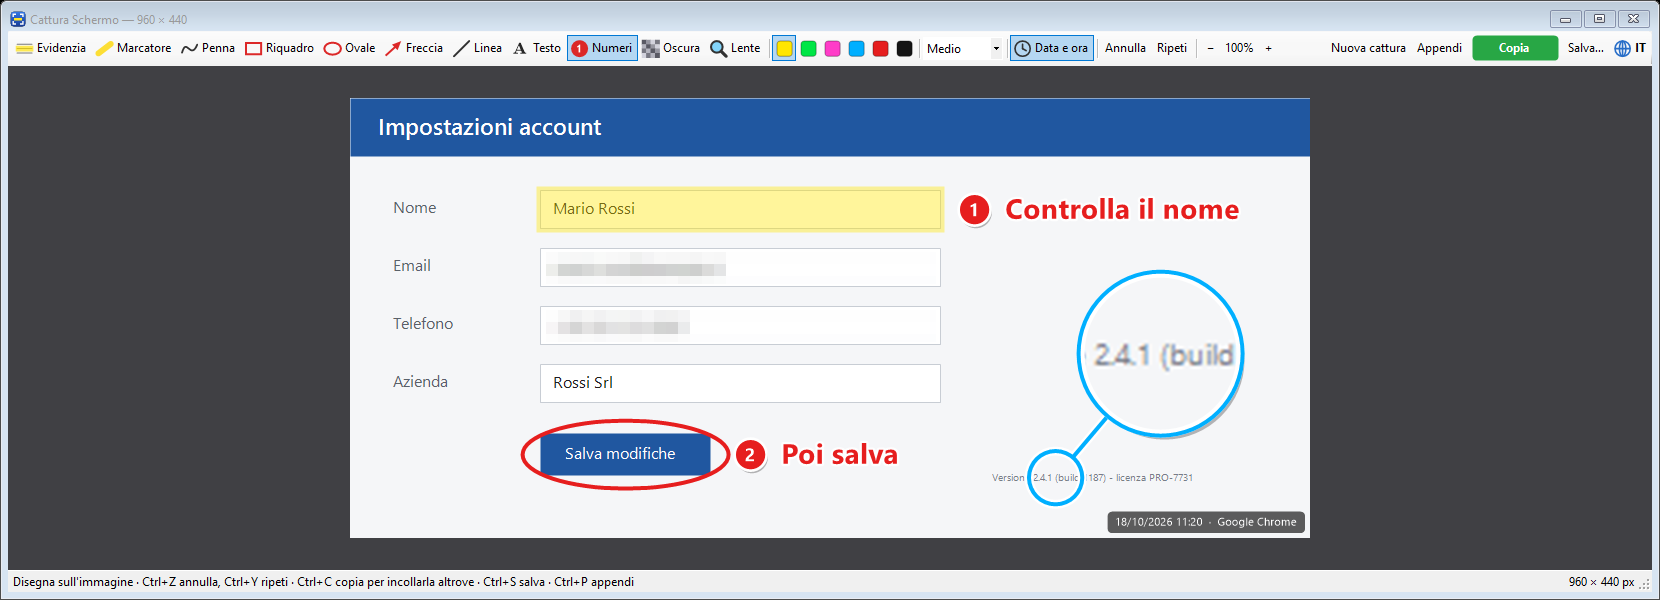
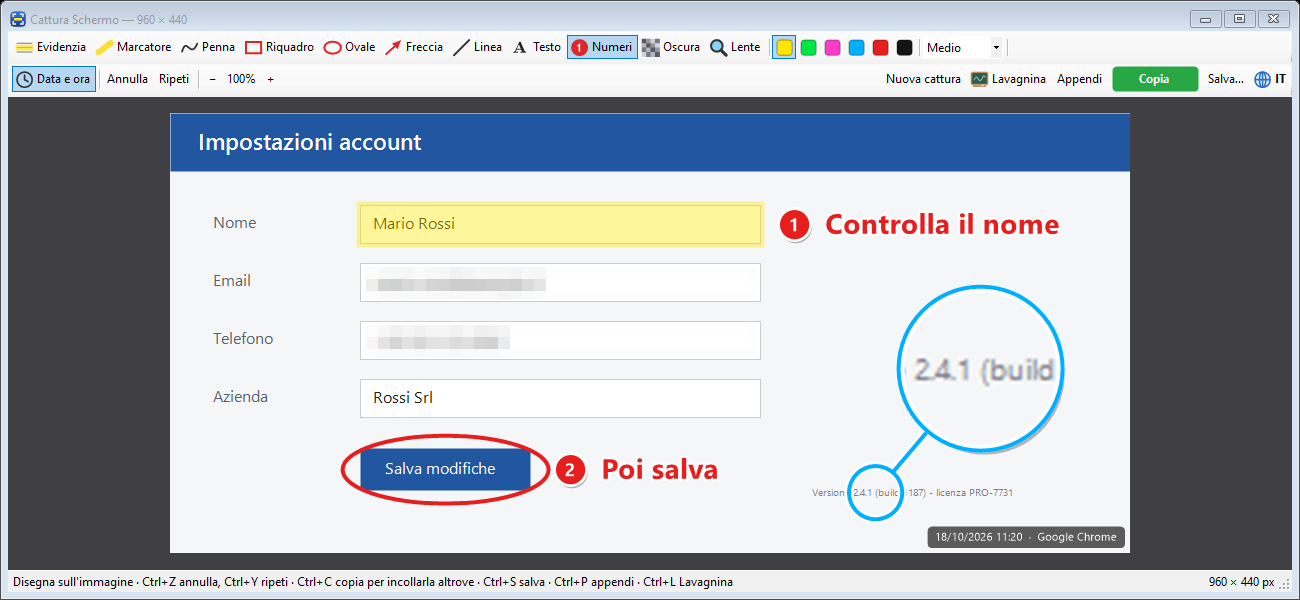
Versione 1.2.0: copia automatica, pulsante Lavagnina, barra su due righe
- Copia automatica: appena catturata, l'immagine va negli appunti
  (voce del menu dell'icona per spegnerla).
- Pulsante Lavagnina (Ctrl+L): manda l'immagine con i segni alla
  lavagna aperta, se Lavagnina è installata.
- La barra degli strumenti è su due righe, così su schermi Full HD
  Copia, Salva, Appendi e Lavagnina restano sempre visibili.
- README e screenshot aggiornati.

diff --git a/CatturaSchermo.cs b/CatturaSchermo.cs
@@ -88,6 +88,38 @@ namespace CatturaSchermo
         public static string T(string it, string english) { return en ? english : it; }
     }
 
+    // Preferenze ricordate tra un avvio e l'altro.
+    public static class Prefs
+    {
+        const string Key = @"Software\CatturaSchermo";
+
+        // Copiare l'immagine negli appunti appena catturata (attivo se non è mai stato spento).
+        public static bool AutoCopy
+        {
+            get
+            {
+                try
+                {
+                    using (var k = Registry.CurrentUser.OpenSubKey(Key))
+                    {
+                        object v = k == null ? null : k.GetValue("AutoCopy");
+                        return !(v is int) || (int)v != 0;
+                    }
+                }
+                catch { return true; }
+            }
+            set
+            {
+                try
+                {
+                    using (var k = Registry.CurrentUser.CreateSubKey(Key))
+                        k.SetValue("AutoCopy", value ? 1 : 0, RegistryValueKind.DWord);
+                }
+                catch { }
+            }
+        }
+    }
+
     // ------------------------------------------------------------------ icona dell'app
 
     public static class IconArt
@@ -186,6 +218,9 @@ namespace CatturaSchermo
             var auto = new ToolStripMenuItem();
             auto.Checked = IsAutostart();
             auto.Click += delegate { SetAutostart(!auto.Checked); auto.Checked = IsAutostart(); };
+            var autoCopy = new ToolStripMenuItem();
+            autoCopy.Checked = Prefs.AutoCopy;
+            autoCopy.Click += delegate { Prefs.AutoCopy = !Prefs.AutoCopy; autoCopy.Checked = Prefs.AutoCopy; };
             var language = new ToolStripMenuItem("Lingua / Language");
             var italian = new ToolStripMenuItem("Italiano", null, delegate { Lang.Set(false); });
             var english = new ToolStripMenuItem("English", null, delegate { Lang.Set(true); });
@@ -195,6 +230,7 @@ namespace CatturaSchermo
             menu.Items.Add(area);
             menu.Items.Add(full);
             menu.Items.Add(new ToolStripSeparator());
+            menu.Items.Add(autoCopy);
             menu.Items.Add(auto);
             menu.Items.Add(language);
             menu.Items.Add(new ToolStripSeparator());
@@ -206,6 +242,7 @@ namespace CatturaSchermo
                 tray.Text = Program.AppName + "  (Ctrl+Alt+S)";
                 area.Text = Lang.T("Cattura un'area", "Capture an area") + "\tCtrl+Alt+S";
                 full.Text = Lang.T("Cattura schermo intero", "Capture full screen") + "\tCtrl+Alt+F";
+                autoCopy.Text = Lang.T("Copia subito negli appunti", "Copy to clipboard right away");
                 auto.Text = Lang.T("Avvia con Windows", "Start with Windows");
                 exit.Text = Lang.T("Esci", "Exit");
                 italian.Checked = !Lang.En;
@@ -1381,7 +1418,7 @@ namespace CatturaSchermo
         Color color;
         readonly Panel host;
         readonly Canvas canvas;
-        readonly ToolStrip strip;
+        readonly ToolStrip strip, strip2;   // fila degli strumenti e fila delle azioni
         readonly Dictionary<Tool, ToolStripButton> toolButtons = new Dictionary<Tool, ToolStripButton>();
         readonly List<ToolStripButton> colorButtons = new List<ToolStripButton>();
         readonly ToolStripComboBox widthBox;
@@ -1415,6 +1452,13 @@ namespace CatturaSchermo
             strip.GripStyle = ToolStripGripStyle.Hidden;
             strip.ImageScalingSize = new Size(isz, isz);
             strip.Padding = new Padding((int)(4 * scale), (int)(3 * scale), 0, (int)(3 * scale));
+
+            // Seconda fila: annulla, zoom, data e ora e, a destra, Copia/Salva/Appendi/Lavagnina.
+            // Divise su due righe i pulsanti stanno anche su schermi Full HD con ingrandimento 125-150%.
+            strip2 = new ToolStrip();
+            strip2.GripStyle = ToolStripGripStyle.Hidden;
+            strip2.ImageScalingSize = new Size(isz, isz);
+            strip2.Padding = new Padding((int)(4 * scale), (int)(1 * scale), 0, (int)(3 * scale));
 
             AddToolButton(Tool.Evidenziatore, isz, "Evidenzia", "Highlight",
                 "Evidenzia un'area rettangolare (1)", "Highlight a rectangular area (1)");
@@ -1497,17 +1541,17 @@ namespace CatturaSchermo
                     Lang.T("  (clic per mostrarla/nasconderla)", "  (click to show/hide it)");
             });
             stampButton.CheckedChanged += delegate { stampOn = stampButton.Checked; modified = true; canvas.Invalidate(); };
-            strip.Items.Add(stampButton);
-            strip.Items.Add(new ToolStripSeparator());
+            strip2.Items.Add(stampButton);
+            strip2.Items.Add(new ToolStripSeparator());
 
             AddAction("Annulla", "Undo", "Annulla l'ultima modifica (Ctrl+Z)", "Undo the last change (Ctrl+Z)", Undo);
             AddAction("Ripeti", "Redo", "Ripeti (Ctrl+Y)", "Redo (Ctrl+Y)", Redo);
-            strip.Items.Add(new ToolStripSeparator());
+            strip2.Items.Add(new ToolStripSeparator());
             AddAction("−", "−", "Riduci (Ctrl+meno o Ctrl+rotellina)", "Zoom out (Ctrl+minus or Ctrl+wheel)", delegate { SetZoom(zoom / 1.25f); });
             zoomLabel = new ToolStripLabel("100%");
             Loc(delegate { zoomLabel.ToolTipText = Lang.T("Clic: dimensione reale / adatta alla finestra (Ctrl+0)", "Click: actual size / fit to window (Ctrl+0)"); });
             zoomLabel.Click += delegate { ToggleFit(); };
-            strip.Items.Add(zoomLabel);
+            strip2.Items.Add(zoomLabel);
             AddAction("+", "+", "Ingrandisci (Ctrl+più o Ctrl+rotellina)", "Zoom in (Ctrl+plus or Ctrl+wheel)", delegate { SetZoom(zoom * 1.25f); });
 
             // A destra (il primo aggiunto sta all'estremità): lingua, Salva, Copia, Appendi, Nuova cattura.
@@ -1564,11 +1608,42 @@ namespace CatturaSchermo
             again.Alignment = ToolStripItemAlignment.Right;
             again.Click += delegate { NewCapture(); };
             Loc(delegate { again.Text = Lang.T("Nuova cattura", "New capture"); again.ToolTipText = Lang.T("Nuova cattura (Ctrl+N)", "New capture (Ctrl+N)"); });
-            strip.Items.Add(langButton);
-            strip.Items.Add(save);
-            strip.Items.Add(copy);
-            strip.Items.Add(pin);
-            strip.Items.Add(again);
+            strip2.Items.Add(langButton);
+            strip2.Items.Add(save);
+            strip2.Items.Add(copy);
+            strip2.Items.Add(pin);
+
+            // Lavagnina: il pulsante c'è solo se il programma è installato
+            lavagninaPath = FindLavagnina();
+            if (lavagninaPath != null)
+            {
+                var lav = new ToolStripButton();
+                lav.Alignment = ToolStripItemAlignment.Right;
+                try
+                {
+                    using (var ico = Icon.ExtractAssociatedIcon(lavagninaPath))
+                    using (var big = ico.ToBitmap())
+                    {
+                        var small = new Bitmap(isz, isz);
+                        using (var g = Graphics.FromImage(small))
+                        {
+                            g.InterpolationMode = InterpolationMode.HighQualityBicubic;
+                            g.DrawImage(big, 0, 0, isz, isz);
+                        }
+                        lav.Image = small;
+                    }
+                }
+                catch { }
+                lav.Click += delegate { SendToLavagnina(); };
+                Loc(delegate
+                {
+                    lav.Text = "Lavagnina";
+                    lav.ToolTipText = Lang.T("Apri l'immagine, con i segni, nella lavagna di Lavagnina (Ctrl+L)",
+                                             "Open the image, with your marks, on the Lavagnina whiteboard (Ctrl+L)");
+                });
+                strip2.Items.Add(lav);
+            }
+            strip2.Items.Add(again);
 
             // --- area di disegno
             host = new Panel();
@@ -1598,6 +1673,7 @@ namespace CatturaSchermo
             statusTimer.Tick += delegate { statusTimer.Stop(); ShowHint(); };
 
             Controls.Add(host);
+            Controls.Add(strip2);
             Controls.Add(strip);
             Controls.Add(bar);
 
@@ -1607,8 +1683,8 @@ namespace CatturaSchermo
 
             // --- dimensione iniziale: l'immagine intera, se ci sta
             Rectangle wa = Screen.FromPoint(Cursor.Position).WorkingArea;
-            int chromeW = 40, chromeH = strip.PreferredSize.Height + bar.PreferredSize.Height + 60;
-            int minW = Math.Max(strip.PreferredSize.Width + 30, (int)(560 * scale));
+            int chromeW = 40, chromeH = strip.PreferredSize.Height + strip2.PreferredSize.Height + bar.PreferredSize.Height + 60;
+            int minW = Math.Max(Math.Max(strip.PreferredSize.Width, strip2.PreferredSize.Width) + 30, (int)(560 * scale));
             int maxW = (int)(wa.Width * 0.9), maxH = (int)(wa.Height * 0.9);
             float fit = Math.Min(1f, Math.Min((maxW - chromeW) / (float)img.Width, (maxH - chromeH) / (float)img.Height));
             SetZoom(fit);
@@ -1649,7 +1725,7 @@ namespace CatturaSchermo
             var b = new ToolStripButton();
             b.Click += delegate { action(); };
             Loc(delegate { b.Text = Lang.T(it, en); b.ToolTipText = Lang.T(tipIt, tipEn); });
-            strip.Items.Add(b);
+            strip2.Items.Add(b);
         }
 
         static Bitmap GlobeIcon(int s)
@@ -1672,7 +1748,8 @@ namespace CatturaSchermo
         {
             status.Text = Lang.T(
                 "Disegna sull'immagine · Ctrl+Z annulla, Ctrl+Y ripeti · Ctrl+C copia per incollarla altrove · Ctrl+S salva · Ctrl+P appendi",
-                "Draw on the image · Ctrl+Z undo, Ctrl+Y redo · Ctrl+C copy to paste it elsewhere · Ctrl+S save · Ctrl+P pin");
+                "Draw on the image · Ctrl+Z undo, Ctrl+Y redo · Ctrl+C copy to paste it elsewhere · Ctrl+S save · Ctrl+P pin") +
+                (lavagninaPath != null ? " · Ctrl+L Lavagnina" : "");
         }
 
         void Flash(string msg)
@@ -1690,6 +1767,24 @@ namespace CatturaSchermo
             Activate();
             TopMost = false;
             canvas.Focus();
+            if (Prefs.AutoCopy) CopyRightAway();
+        }
+
+        // Appena catturata, l'immagine va negli appunti (come se si fosse già premuto Ctrl+C).
+        void CopyRightAway()
+        {
+            using (var bmp = Render())
+                if (!ImageExport.Copy(this, bmp)) return;
+            copiedShown = true;
+            copyButton.Text = Lang.T("✔ Copiato", "✔ Copied");
+            copyButton.Invalidate();
+            copiedTimer.Stop();
+            copiedTimer.Start();
+            status.Text = Lang.T("✔ Già negli appunti: incollala con Ctrl+V. Se aggiungi dei segni, premi di nuovo Copia.",
+                                 "✔ Already on the clipboard: paste it with Ctrl+V. If you add marks, press Copy again.");
+            statusTimer.Stop();
+            statusTimer.Interval = 7000;   // questo promemoria resta un po' di più
+            statusTimer.Start();
         }
 
         // --- strumenti e colori
@@ -2727,6 +2822,53 @@ namespace CatturaSchermo
             Close();
         }
 
+        // --- Lavagnina (C:\...\Lavagnina.exe): riceve l'immagine e la aggiunge alla lavagna aperta
+
+        string lavagninaPath;
+
+        static string FindLavagnina()
+        {
+            var candidates = new List<string>();
+            try
+            {
+                // Lavagnina scrive qui dov'è, a ogni avvio
+                using (var k = Registry.CurrentUser.OpenSubKey(@"Software\Lavagnina"))
+                    if (k != null) candidates.Add(k.GetValue("ExePath") as string);
+            }
+            catch { }
+            string dir = Path.GetDirectoryName(typeof(EditorForm).Assembly.Location);
+            candidates.Add(Path.Combine(dir, "Lavagnina.exe"));
+            candidates.Add(Path.GetFullPath(Path.Combine(dir, @"..\Excalidraw\Lavagnina.exe")));
+            candidates.Add(Path.GetFullPath(Path.Combine(dir, @"..\Lavagnina\Lavagnina.exe")));
+            foreach (string c in candidates)
+                if (!string.IsNullOrEmpty(c) && File.Exists(c)) return c;
+            return null;
+        }
+
+        void SendToLavagnina()
+        {
+            CommitText();
+            try
+            {
+                string folder = Path.Combine(Path.GetTempPath(), "CatturaSchermo");
+                Directory.CreateDirectory(folder);
+                // Le immagini mandate i giorni scorsi non servono più
+                foreach (string old in Directory.GetFiles(folder, "*.png"))
+                    try { if (File.GetLastWriteTime(old) < DateTime.Now.AddDays(-1)) File.Delete(old); } catch { }
+
+                string file = Path.Combine(folder, Lang.T("Cattura_", "Capture_") + DateTime.Now.ToString("yyyy-MM-dd_HH-mm-ss") + ".png");
+                using (var bmp = Render()) bmp.Save(file, ImageFormat.Png);
+                System.Diagnostics.Process.Start(new System.Diagnostics.ProcessStartInfo(lavagninaPath, "\"" + file + "\"") { UseShellExecute = false });
+                modified = false;
+                Flash(Lang.T("✔ Inviata a Lavagnina", "✔ Sent to Lavagnina"));
+            }
+            catch (Exception ex)
+            {
+                MessageBox.Show(this, Lang.T("Impossibile aprire Lavagnina:\n", "Could not open Lavagnina:\n") + ex.Message,
+                    Program.AppName, MessageBoxButtons.OK, MessageBoxIcon.Warning);
+            }
+        }
+
         void NewCapture()
         {
             if (Program.RequestCapture == null) return;
@@ -2751,6 +2893,7 @@ namespace CatturaSchermo
                 case Keys.Control | Keys.Y: Redo(); return true;
                 case Keys.Control | Keys.N: NewCapture(); return true;
                 case Keys.Control | Keys.P: Pin(); return true;
+                case Keys.Control | Keys.L: if (lavagninaPath != null) SendToLavagnina(); return true;
                 case Keys.Control | Keys.Oemplus:
                 case Keys.Control | Keys.Add: SetZoom(zoom * 1.25f); return true;
                 case Keys.Control | Keys.OemMinus:

diff --git a/README.md b/README.md
@@ -51,9 +51,11 @@ Lo stesso metodo funziona per i piccoli fastidi operativi di un'azienda.
   (es. "18/10/2026 11:20 · Google Chrome"), che si toglie con un clic su **Data e ora**.
 
 **Dopo**
+- **Copia automatica**: appena catturi, l'immagine è già negli appunti, come se avessi premuto `Ctrl+C`: puoi incollare subito con `Ctrl+V`. Si spegne dal menu dell'icona (**Copia subito negli appunti**).
 - **Copia** (`Ctrl+C`, il pulsante verde): l'immagine va negli appunti, pronta da incollare con `Ctrl+V` in Word, email, WhatsApp, Teams…
   Il pulsante mostra per un attimo **✔ Copiato**. Con la cronologia degli appunti di Windows (`Win+V`) puoi tenere più catture e incollare quella che vuoi.
 - **Salva** (`Ctrl+S`): PNG, JPG o BMP.
+- **Lavagnina** (`Ctrl+L`): se sul PC hai anche Lavagnina (una lavagna per disegni a mano libera), un pulsante manda l'immagine, con i tuoi segni, sulla lavagna aperta.
 - **Appendi** (`Ctrl+P`): l'immagine resta **sullo schermo, sempre in primo piano**, con un bordo del colore scelto,
   mentre lavori in un'altra finestra. Si sposta trascinandola, la rotellina cambia la grandezza,
   `Ctrl` + rotellina la trasparenza, doppio clic la chiude.
@@ -80,7 +82,7 @@ Compare un'icona vicino all'orologio (se non la vedi, guarda tra le icone nascos
 | `Ctrl+Alt+F` | Catturi lo schermo intero |
 | Nella finestra di modifica | Scegli uno strumento e disegna; `Ctrl+C` copia, `Ctrl+S` salva, `Ctrl+P` appende |
 | Con Testo, Riquadro o Ovale attivo | Passa sopra una forma già messa: trascinala per spostarla, il pallino per ruotarla, i quadratini per ridimensionarla |
-| Clic destro sull'icona | Menu: cattura, avvio con Windows, lingua, esci |
+| Clic destro sull'icona | Menu: cattura, copia subito negli appunti, avvio con Windows, lingua, esci |
 
 ## Compilare dal codice sorgente
 

diff --git a/README.en.md b/README.en.md
@@ -53,9 +53,11 @@ The same approach works for the small operational annoyances of any business.
   (e.g. "18/10/2026 11:20 · Google Chrome"), removed with one click on **Date/time**.
 
 **Then**
+- **Automatic copy**: as soon as you capture, the image is already on the clipboard, as if you had pressed `Ctrl+C`: paste right away with `Ctrl+V`. Turn it off from the tray menu (**Copy to clipboard right away**).
 - **Copy** (`Ctrl+C`, the green button): the image goes to the clipboard, ready to paste with `Ctrl+V` into Word, email, WhatsApp, Teams…
   The button briefly shows **✔ Copied**. With the Windows clipboard history (`Win+V`) you can keep several captures and paste the one you want.
 - **Save** (`Ctrl+S`): PNG, JPG or BMP.
+- **Lavagnina** (`Ctrl+L`): if you also have Lavagnina (a freehand whiteboard) on your PC, a button sends the image, with your marks, to the open whiteboard.
 - **Pin** (`Ctrl+P`): the image stays **on screen, always on top**, with a border in the chosen colour,
   while you work in another window. Drag it to move it, the wheel changes its size,
   `Ctrl` + wheel its transparency, double-click closes it.
@@ -82,7 +84,7 @@ An icon appears next to the clock (if you don't see it, look among the hidden ic
 | `Ctrl+Alt+F` | Capture the full screen |
 | In the editing window | Pick a tool and draw; `Ctrl+C` copies, `Ctrl+S` saves, `Ctrl+P` pins |
 | With Text, Box or Oval active | Hover over an existing shape: drag it to move it, the dot to rotate it, the small squares to resize it |
-| Right-click on the icon | Menu: capture, start with Windows, language, exit |
+| Right-click on the icon | Menu: capture, copy right away, start with Windows, language, exit |
 
 ## Building from source
 
